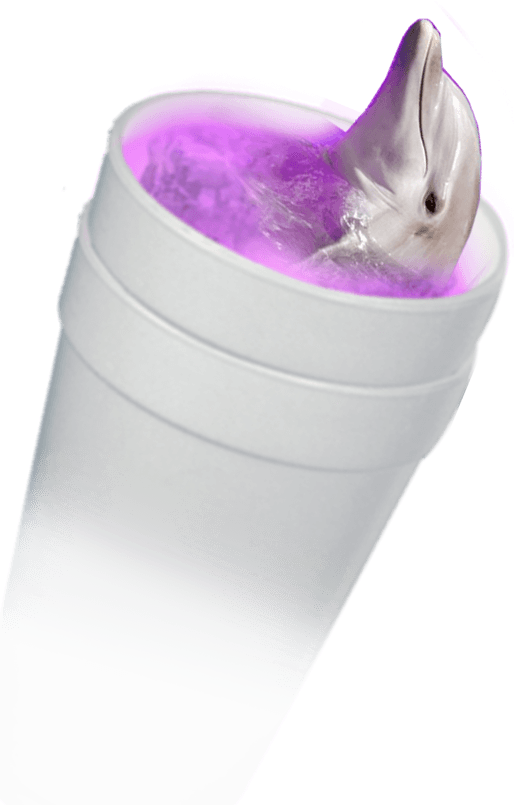
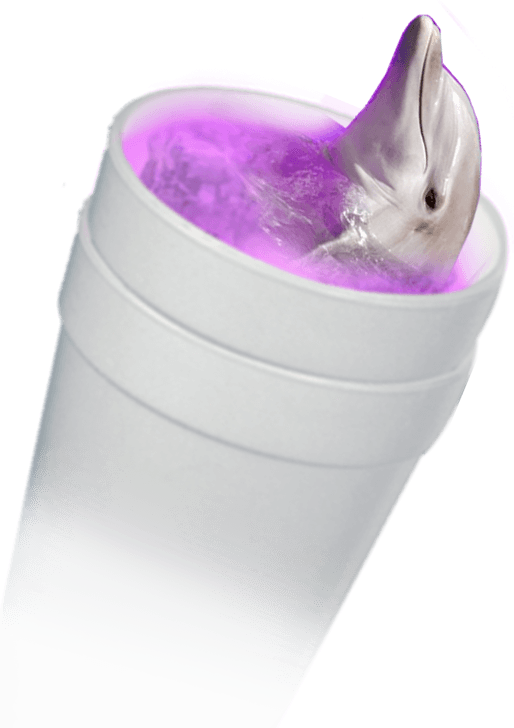
make gap smaller, change the images

diff --git a/frontend/src/components/home/Faq.jsx b/frontend/src/components/home/Faq.jsx
@@ -1,5 +1,6 @@
 import React from "react";
 import Box from '@material-ui/core/Box';
+import Grid from '@material-ui/core/Grid';
 import Card from '@material-ui/core/Card';
 import CardContent from '@material-ui/core/CardContent';
 import Typography from '@material-ui/core/Typography';
@@ -80,6 +81,10 @@ const useStyles = makeStyles({
     }
 });
 
+function img(url) {
+    return process.env.PUBLIC_URL + '/images/' + url;
+  }
+
 export default function Faq() {
 
     const classes = useStyles();
@@ -89,10 +94,20 @@ export default function Faq() {
 
     return (
         <Box>
-
-                            <Typography className={classes.title} variant="h4" style={{ marginTop:"0%"}} gutterBottom>
-                            Frequently Asked Questions
-                            </Typography>
+                            <Grid container spacing={2} justify="center" alignItems="center" style={{ marginTop:"7%"}}>
+                                <Grid item xs={2}>
+                                    <img style={{marginLeft: "5%", width: "120%"}} src={img("home_bg/3.png")}/>
+                                </Grid>
+                                <Grid item xs={8}>
+                                    <Typography className={classes.title} variant="h4" style={{ marginTop:"0%"}} gutterBottom>
+                                        Frequently Asked Questions
+                                    </Typography>
+                                </Grid>
+                                <Grid item xs={2}>
+                                    <img style={{marginLeft: "-30%", width: "120%"}} src={img("home_bg/3.png")}/>
+                                </Grid>
+                            </Grid>
+                            
 
                             <Box raised="true" border={4} borderLeft={0} borderRight={0} borderBottom={0} borderColor="#ffffff">
                                 <Accordion className={`${classes.colorBackground} ${classes.text}`} border={0} elevation={0} classes={{root: classes.MuiAccordionroot}}>

diff --git a/frontend/src/components/home/Schedule.jsx b/frontend/src/components/home/Schedule.jsx
@@ -53,6 +53,9 @@ const useStyles = makeStyles({
 
 export default function Schedule() {
 
+  function img(url) {
+    return process.env.PUBLIC_URL + '/images/' + url;
+  }
 
   const classes = useStyles();
   const [day, setDay] = React.useState("fri");
@@ -63,13 +66,21 @@ export default function Schedule() {
 
   return (
     <Box py={2}>
+          <Grid container spacing={2} justify="center" alignItems="center" style={{ marginTop:"15%"}}>
+            <Grid item xs={4}>
+            </Grid>
+            <Grid item xs={4}>
+              <Typography className={classes.title} variant="h4" style={{marginTop: "-30%"}} gutterBottom>
+                Schedule
+              </Typography>
+            </Grid>
+            <Grid item xs={4}>
+              <img style={{marginLeft: "0%", marginTop: "-60%", width: "60%"}} src={img("home_bg/1_edit.png")}/>
+            </Grid>              
+          </Grid>
+          
 
-
-          <Typography className={classes.title} variant="h4" style={{ marginTop:"0%"}} gutterBottom>
-            Schedule
-          </Typography>
-
-          <div className={classes.divFont} style={{ color: "#ffffff", fontWeight: "bold", fontSize: "150%"}} >All times in EDT (GMT-4)</div>
+          <div className={classes.divFont} style={{ color: "#ffffff", fontWeight: "bold", fontSize: "150%", marginTop: "-10%"}} >All times in EDT (GMT-4)</div>
 
           <TableContainer component={Paper} style={{ width: "100%", backgroundColor:"#eef7ff"}} align="center" sx={{ maxHeight: 440 }}>
 

diff --git a/frontend/src/components/home/Sponsors.jsx b/frontend/src/components/home/Sponsors.jsx
@@ -133,10 +133,10 @@ export default function Sponsors() {
                         <div>
                             <Grid container spacing={2} justify="center" alignItems="center">
                                 <Grid item xs={4}>
-                                    <img style={{marginLeft: "30%", marginBottom: "45%", width: "60%"}} src={img("home_bg/4.png")}/>
+                                    <img style={{marginLeft: "40%", marginBottom: "0%", width: "60%"}} src={img("home_bg/4_edit.png")}/>
                                 </Grid>
                                 <Grid item xs={4}>
-                                    <h4 className={classes.title} style={{ marginTop:"55%"}} >Sponsors</h4>
+                                    <h4 className={classes.title} style={{ marginTop:"30%"}} >Sponsors</h4>
                                     <h5 className={classes.contact} gutterBottom>Interested in sponsoring us? Email us at {<a href={`mailto:hophacks.sponsors@gmail.com`}>hophacks.sponsors@gmail.com</a>}</h5>
                                 </Grid>
                                 <Grid item xs={4}></Grid>

diff --git a/frontend/src/components/Home.jsx b/frontend/src/components/Home.jsx
@@ -124,21 +124,9 @@ export default function Home() {
             <Container fixed>
                     <AboutTransition />
                     <About />
-                    <img style={{marginLeft: "70%", width: "20%"}} src={img("home_bg/1.png")}/>
                     <Schedule />
                     <Prizes />
                     <Sponsors />
-                    <Grid container spacing={2} justify="center" alignItems="center" style={{ marginTop:"10%"}}>
-                        <Grid item xs={4}>
-                            <img style={{marginLeft: "0%", width: "60%"}} src={img("home_bg/3.png")}/>
-                        </Grid>
-                        <Grid item xs={4}>
-                            <img style={{marginLeft: "15%", width: "60%"}} src={img("home_bg/3.png")}/>
-                        </Grid>
-                        <Grid item xs={4}>  
-                            <img style={{marginLeft: "30%", width: "60%"}} src={img("home_bg/3.png")}/>
-                        </Grid>
-                    </Grid>
                     <Faq />
                     <Team />
 

diff --git a/frontend/src/components/home/Team.jsx b/frontend/src/components/home/Team.jsx
@@ -145,9 +145,9 @@ export default function Team() {
 
   return (
     <Box py={2}>
-          <Grid container spacing={2} justify="center" alignItems="center" style={{ marginTop:"15%"}} >
+          <Grid container spacing={2} justify="center" alignItems="center" style={{ marginTop:"7%"}} >
             <Grid item xs={4}>
-              <img style={{marginLeft: "80%", width: "20%"}} src={img("home_bg/7.png")}/>
+              <img style={{marginLeft: "80%", width: "30%"}} src={img("home_bg/7.png")}/>
             </Grid>
             <Grid item xs={4}>
               <Typography className={classes.title} variant="h4" style={{ marginTop:"20%"}} gutterBottom>
@@ -155,7 +155,7 @@ export default function Team() {
               </Typography>
             </Grid>
             <Grid item xs={4}>  
-              <img style={{marginLeft: "0%", width: "20%"}} src={img("home_bg/7.png")}/>
+              <img style={{marginLeft: "-10%", width: "30%"}} src={img("home_bg/7.png")}/>
             </Grid>
           </Grid>
           
